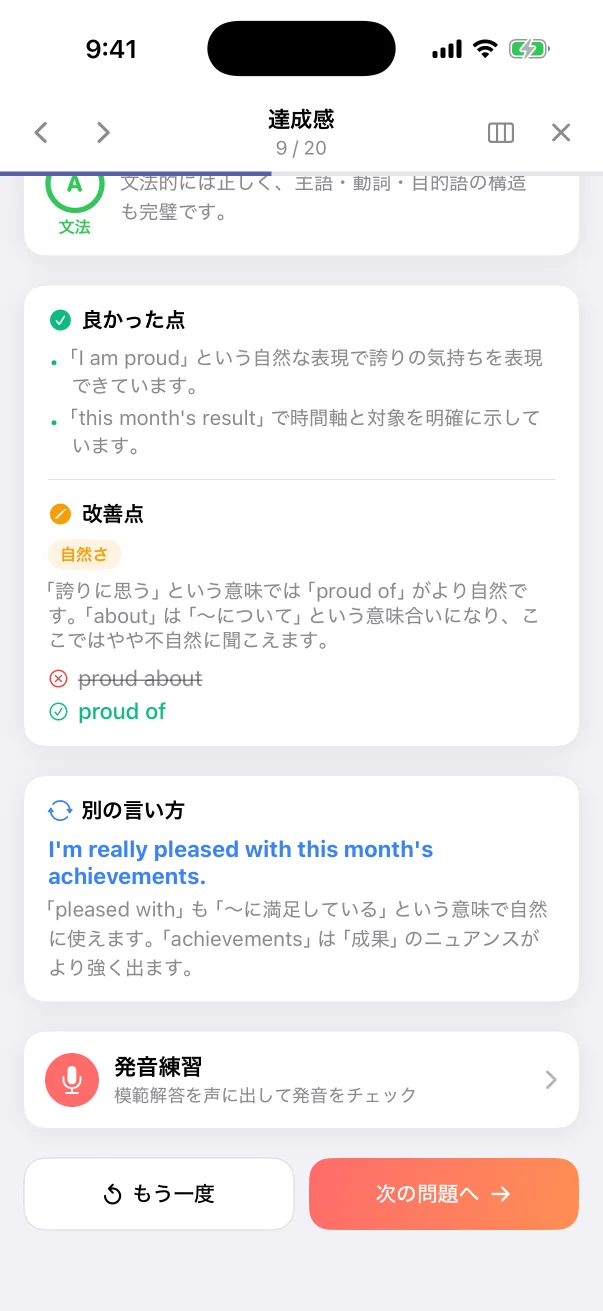
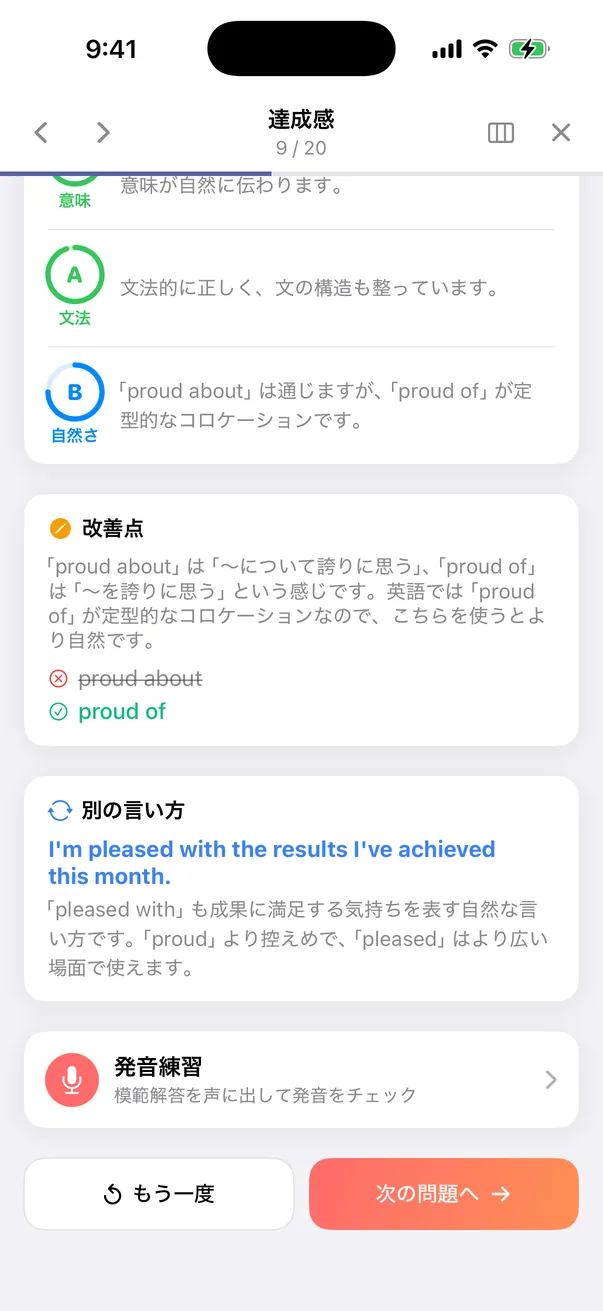
feat(screenshots): UI刷新と新採点を反映し全14スクショを更新
単語=ネイビー/英文法=ボルドーの新ヒーロー配色、AI採点の自然さ厳格化(proud about→B)を反映。home/vocab/grammar/composition/result/review/progress の14枚を再撮影→webp(603x1311)化。index.html/en/index.html のキャッシュバスターを v=0618 に統一。

diff --git a/index.html b/index.html
@@ -402,7 +402,7 @@
                         <span class="phone-btn phone-btn-vol-dn"></span>
                         <span class="phone-btn phone-btn-power"></span>
                         <div class="phone-screen">
-                            <img src="screenshots/home-light.webp?v=0604"
+                            <img src="screenshots/home-light.webp?v=0618"
                                  alt="SnapEnglish ホーム画面 ライトモード — 学習進捗カレンダーと英作文コース一覧"
                                  width="603" height="1311"
                                  loading="eager"
@@ -416,7 +416,7 @@
                         <span class="phone-btn phone-btn-vol-dn"></span>
                         <span class="phone-btn phone-btn-power"></span>
                         <div class="phone-screen phone-screen-dark">
-                            <img src="screenshots/home-dark.webp?v=0604"
+                            <img src="screenshots/home-dark.webp?v=0618"
                                  alt="SnapEnglish ホーム画面 ダークモード"
                                  width="603" height="1311"
                                  loading="lazy">
@@ -520,7 +520,7 @@
                                 <span class="phone-btn phone-btn-vol-dn"></span>
                                 <span class="phone-btn phone-btn-power"></span>
                                 <div class="phone-screen">
-                                    <img src="screenshots/vocab-problem.webp?v=0604"
+                                    <img src="screenshots/vocab-problem.webp?v=0618"
                                          alt="単語学習 例文穴埋め問題 — i____ that you were lying"
                                          width="603" height="1311"
                                          loading="lazy">
@@ -535,7 +535,7 @@
                                 <span class="phone-btn phone-btn-vol-dn"></span>
                                 <span class="phone-btn phone-btn-power"></span>
                                 <div class="phone-screen phone-screen-dark">
-                                    <img src="screenshots/vocab-answer.webp?v=0604"
+                                    <img src="screenshots/vocab-answer.webp?v=0618"
                                          alt="単語学習 答えと解説 — imply の意味・例文・用法"
                                          width="603" height="1311"
                                          loading="lazy">
@@ -558,7 +558,7 @@
                                 <span class="phone-btn phone-btn-vol-dn"></span>
                                 <span class="phone-btn phone-btn-power"></span>
                                 <div class="phone-screen">
-                                    <img src="screenshots/grammar-home.webp?v=0604"
+                                    <img src="screenshots/grammar-home.webp?v=0618"
                                          alt="英文法 学習コース — 文型・時制などトピック別"
                                          width="603" height="1311" loading="lazy">
                                 </div>
@@ -572,7 +572,7 @@
                                 <span class="phone-btn phone-btn-vol-dn"></span>
                                 <span class="phone-btn phone-btn-power"></span>
                                 <div class="phone-screen">
-                                    <img src="screenshots/grammar-rearrange.webp?v=0604"
+                                    <img src="screenshots/grammar-rearrange.webp?v=0618"
                                          alt="英文法 並べ替え — 語順を組み立てて文法を身につける"
                                          width="603" height="1311" loading="lazy">
                                 </div>
@@ -622,7 +622,7 @@
                                 <span class="phone-btn phone-btn-vol-dn"></span>
                                 <span class="phone-btn phone-btn-power"></span>
                                 <div class="phone-screen">
-                                    <img src="screenshots/practice-input.webp?v=0604"
+                                    <img src="screenshots/practice-input.webp?v=0618"
                                          alt="瞬間英作文 入力モード — タイプまたは音声で回答"
                                          width="603" height="1311"
                                          loading="lazy">
@@ -637,7 +637,7 @@
                                 <span class="phone-btn phone-btn-vol-dn"></span>
                                 <span class="phone-btn phone-btn-power"></span>
                                 <div class="phone-screen">
-                                    <img src="screenshots/practice-rearrange.webp?v=0604"
+                                    <img src="screenshots/practice-rearrange.webp?v=0618"
                                          alt="瞬間英作文 並べ替えモード — 単語タイルで組み立て"
                                          width="603" height="1311"
                                          loading="lazy">
@@ -660,7 +660,7 @@
                                 <span class="phone-btn phone-btn-vol-dn"></span>
                                 <span class="phone-btn phone-btn-power"></span>
                                 <div class="phone-screen">
-                                    <img src="screenshots/result-1.webp?v=0604"
+                                    <img src="screenshots/result-1.webp?v=0618"
                                          alt="AI 評価結果1 — 意味・自然さ・文法の3観点評価"
                                          width="603" height="1311"
                                          loading="lazy">
@@ -675,7 +675,7 @@
                                 <span class="phone-btn phone-btn-vol-dn"></span>
                                 <span class="phone-btn phone-btn-power"></span>
                                 <div class="phone-screen">
-                                    <img src="screenshots/result-2.webp?v=0604"
+                                    <img src="screenshots/result-2.webp?v=0618"
                                          alt="AI 評価結果2 — 別の言い方・発音練習・保存"
                                          width="603" height="1311"
                                          loading="lazy">
@@ -726,7 +726,7 @@
                                 <span class="phone-btn phone-btn-vol-dn"></span>
                                 <span class="phone-btn phone-btn-power"></span>
                                 <div class="phone-screen">
-                                    <img src="screenshots/review-session.webp?v=0604"
+                                    <img src="screenshots/review-session.webp?v=0618"
                                          alt="反復学習 — 今日の復習問題を解く"
                                          width="603" height="1311" loading="lazy">
                                 </div>
@@ -740,7 +740,7 @@
                                 <span class="phone-btn phone-btn-vol-dn"></span>
                                 <span class="phone-btn phone-btn-power"></span>
                                 <div class="phone-screen">
-                                    <img src="screenshots/review-list.webp?v=0604"
+                                    <img src="screenshots/review-list.webp?v=0618"
                                          alt="復習リスト — 学習中の単語と習得状況"
                                          width="603" height="1311" loading="lazy">
                                 </div>
@@ -762,7 +762,7 @@
                                 <span class="phone-btn phone-btn-vol-dn"></span>
                                 <span class="phone-btn phone-btn-power"></span>
                                 <div class="phone-screen">
-                                    <img src="screenshots/progress-overview.webp?v=0604"
+                                    <img src="screenshots/progress-overview.webp?v=0618"
                                          alt="進捗ページ — 週間バー、ストリーク、コース別リング"
                                          width="603" height="1311"
                                          loading="lazy">
@@ -777,7 +777,7 @@
                                 <span class="phone-btn phone-btn-vol-dn"></span>
                                 <span class="phone-btn phone-btn-power"></span>
                                 <div class="phone-screen phone-screen-dark">
-                                    <img src="screenshots/progress-detail.webp?v=0604"
+                                    <img src="screenshots/progress-detail.webp?v=0618"
                                          alt="進捗ページ ダークモード — 週間バー・コース別進捗"
                                          width="603" height="1311"
                                          loading="lazy">

diff --git a/en/index.html b/en/index.html
@@ -381,7 +381,7 @@
                         <span class="phone-btn phone-btn-vol-dn"></span>
                         <span class="phone-btn phone-btn-power"></span>
                         <div class="phone-screen">
-                            <img src="../screenshots/home-light.webp?v=0604"
+                            <img src="../screenshots/home-light.webp?v=0618"
                                  alt="SnapEnglish home screen, light mode — calendar and composition courses"
                                  width="603" height="1311"
                                  loading="eager"
@@ -395,7 +395,7 @@
                         <span class="phone-btn phone-btn-vol-dn"></span>
                         <span class="phone-btn phone-btn-power"></span>
                         <div class="phone-screen phone-screen-dark">
-                            <img src="../screenshots/home-dark.webp?v=0604"
+                            <img src="../screenshots/home-dark.webp?v=0618"
                                  alt="SnapEnglish home screen, dark mode"
                                  width="603" height="1311"
                                  loading="lazy">
@@ -499,7 +499,7 @@
                                 <span class="phone-btn phone-btn-vol-dn"></span>
                                 <span class="phone-btn phone-btn-power"></span>
                                 <div class="phone-screen">
-                                    <img src="../screenshots/vocab-problem.webp?v=0604"
+                                    <img src="../screenshots/vocab-problem.webp?v=0618"
                                          alt="Vocabulary fill-in question — i____ that you were lying"
                                          width="603" height="1311"
                                          loading="lazy">
@@ -514,7 +514,7 @@
                                 <span class="phone-btn phone-btn-vol-dn"></span>
                                 <span class="phone-btn phone-btn-power"></span>
                                 <div class="phone-screen phone-screen-dark">
-                                    <img src="../screenshots/vocab-answer.webp?v=0604"
+                                    <img src="../screenshots/vocab-answer.webp?v=0618"
                                          alt="Vocabulary answer & explanation — meaning, example sentence, usage"
                                          width="603" height="1311"
                                          loading="lazy">
@@ -537,7 +537,7 @@
                                 <span class="phone-btn phone-btn-vol-dn"></span>
                                 <span class="phone-btn phone-btn-power"></span>
                                 <div class="phone-screen">
-                                    <img src="../screenshots/grammar-home.webp?v=0604"
+                                    <img src="../screenshots/grammar-home.webp?v=0618"
                                          alt="Grammar course — topics by sentence pattern and tense"
                                          width="603" height="1311" loading="lazy">
                                 </div>
@@ -551,7 +551,7 @@
                                 <span class="phone-btn phone-btn-vol-dn"></span>
                                 <span class="phone-btn phone-btn-power"></span>
                                 <div class="phone-screen">
-                                    <img src="../screenshots/grammar-rearrange.webp?v=0604"
+                                    <img src="../screenshots/grammar-rearrange.webp?v=0618"
                                          alt="Grammar rearrange — build the correct word order"
                                          width="603" height="1311" loading="lazy">
                                 </div>
@@ -601,7 +601,7 @@
                                 <span class="phone-btn phone-btn-vol-dn"></span>
                                 <span class="phone-btn phone-btn-power"></span>
                                 <div class="phone-screen">
-                                    <img src="../screenshots/practice-input.webp?v=0604"
+                                    <img src="../screenshots/practice-input.webp?v=0618"
                                          alt="Instant composition input mode — typing or voice answer"
                                          width="603" height="1311"
                                          loading="lazy">
@@ -616,7 +616,7 @@
                                 <span class="phone-btn phone-btn-vol-dn"></span>
                                 <span class="phone-btn phone-btn-power"></span>
                                 <div class="phone-screen">
-                                    <img src="../screenshots/practice-rearrange.webp?v=0604"
+                                    <img src="../screenshots/practice-rearrange.webp?v=0618"
                                          alt="Arrange mode — assemble the sentence from word tiles"
                                          width="603" height="1311"
                                          loading="lazy">
@@ -639,7 +639,7 @@
                                 <span class="phone-btn phone-btn-vol-dn"></span>
                                 <span class="phone-btn phone-btn-power"></span>
                                 <div class="phone-screen">
-                                    <img src="../screenshots/result-1.webp?v=0604"
+                                    <img src="../screenshots/result-1.webp?v=0618"
                                          alt="AI feedback 1 — meaning, naturalness and grammar"
                                          width="603" height="1311"
                                          loading="lazy">
@@ -654,7 +654,7 @@
                                 <span class="phone-btn phone-btn-vol-dn"></span>
                                 <span class="phone-btn phone-btn-power"></span>
                                 <div class="phone-screen">
-                                    <img src="../screenshots/result-2.webp?v=0604"
+                                    <img src="../screenshots/result-2.webp?v=0618"
                                          alt="AI feedback 2 — alternative phrasing, pronunciation and save"
                                          width="603" height="1311"
                                          loading="lazy">
@@ -705,7 +705,7 @@
                                 <span class="phone-btn phone-btn-vol-dn"></span>
                                 <span class="phone-btn phone-btn-power"></span>
                                 <div class="phone-screen">
-                                    <img src="../screenshots/review-session.webp?v=0604"
+                                    <img src="../screenshots/review-session.webp?v=0618"
                                          alt="Spaced review — answer today's review items"
                                          width="603" height="1311" loading="lazy">
                                 </div>
@@ -719,7 +719,7 @@
                                 <span class="phone-btn phone-btn-vol-dn"></span>
                                 <span class="phone-btn phone-btn-power"></span>
                                 <div class="phone-screen">
-                                    <img src="../screenshots/review-list.webp?v=0604"
+                                    <img src="../screenshots/review-list.webp?v=0618"
                                          alt="Review list — items in progress and mastery"
                                          width="603" height="1311" loading="lazy">
                                 </div>
@@ -741,7 +741,7 @@
                                 <span class="phone-btn phone-btn-vol-dn"></span>
                                 <span class="phone-btn phone-btn-power"></span>
                                 <div class="phone-screen">
-                                    <img src="../screenshots/progress-overview.webp?v=0604"
+                                    <img src="../screenshots/progress-overview.webp?v=0618"
                                          alt="Progress page — weekly bars, streak, and per-course rings"
                                          width="603" height="1311"
                                          loading="lazy">
@@ -756,7 +756,7 @@
                                 <span class="phone-btn phone-btn-vol-dn"></span>
                                 <span class="phone-btn phone-btn-power"></span>
                                 <div class="phone-screen phone-screen-dark">
-                                    <img src="../screenshots/progress-detail.webp?v=0604"
+                                    <img src="../screenshots/progress-detail.webp?v=0618"
                                          alt="Progress dark mode — weekly bars and per-course progress"
                                          width="603" height="1311"
                                          loading="lazy">
